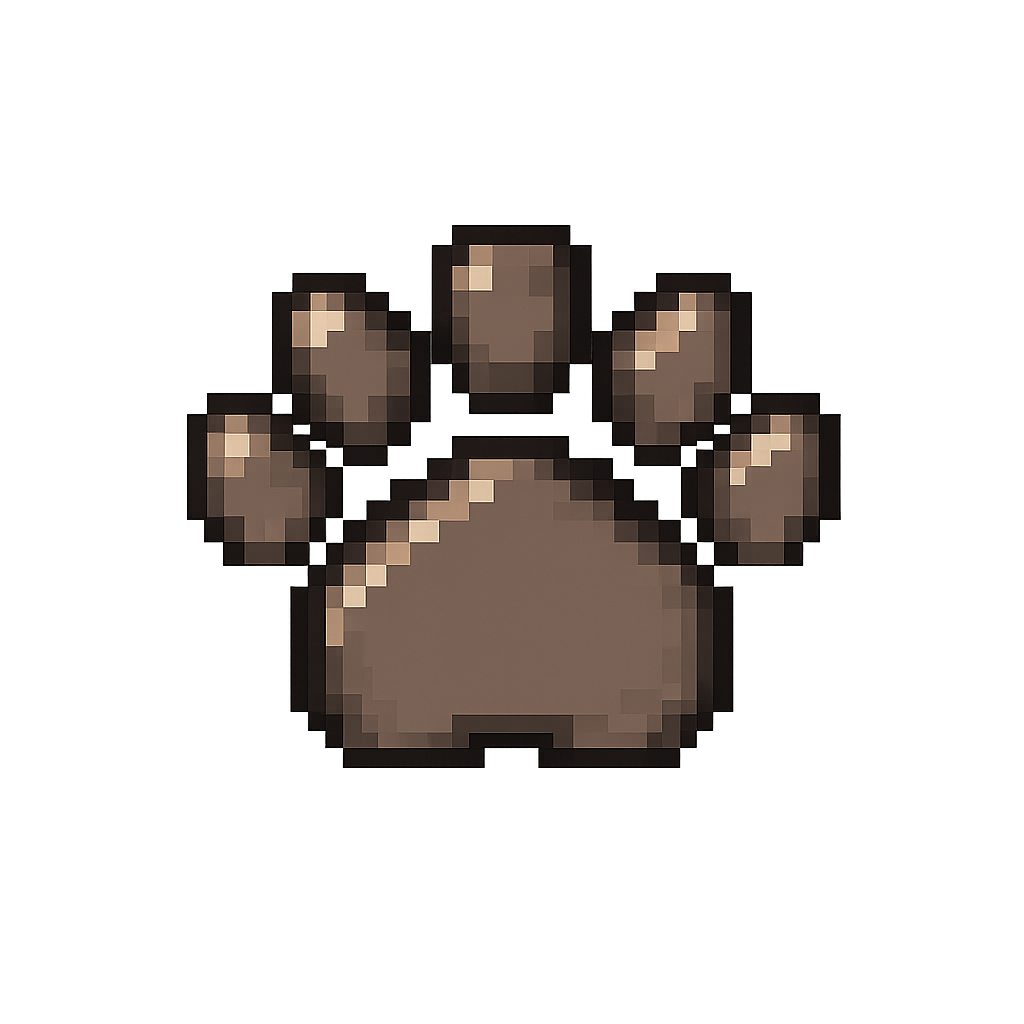
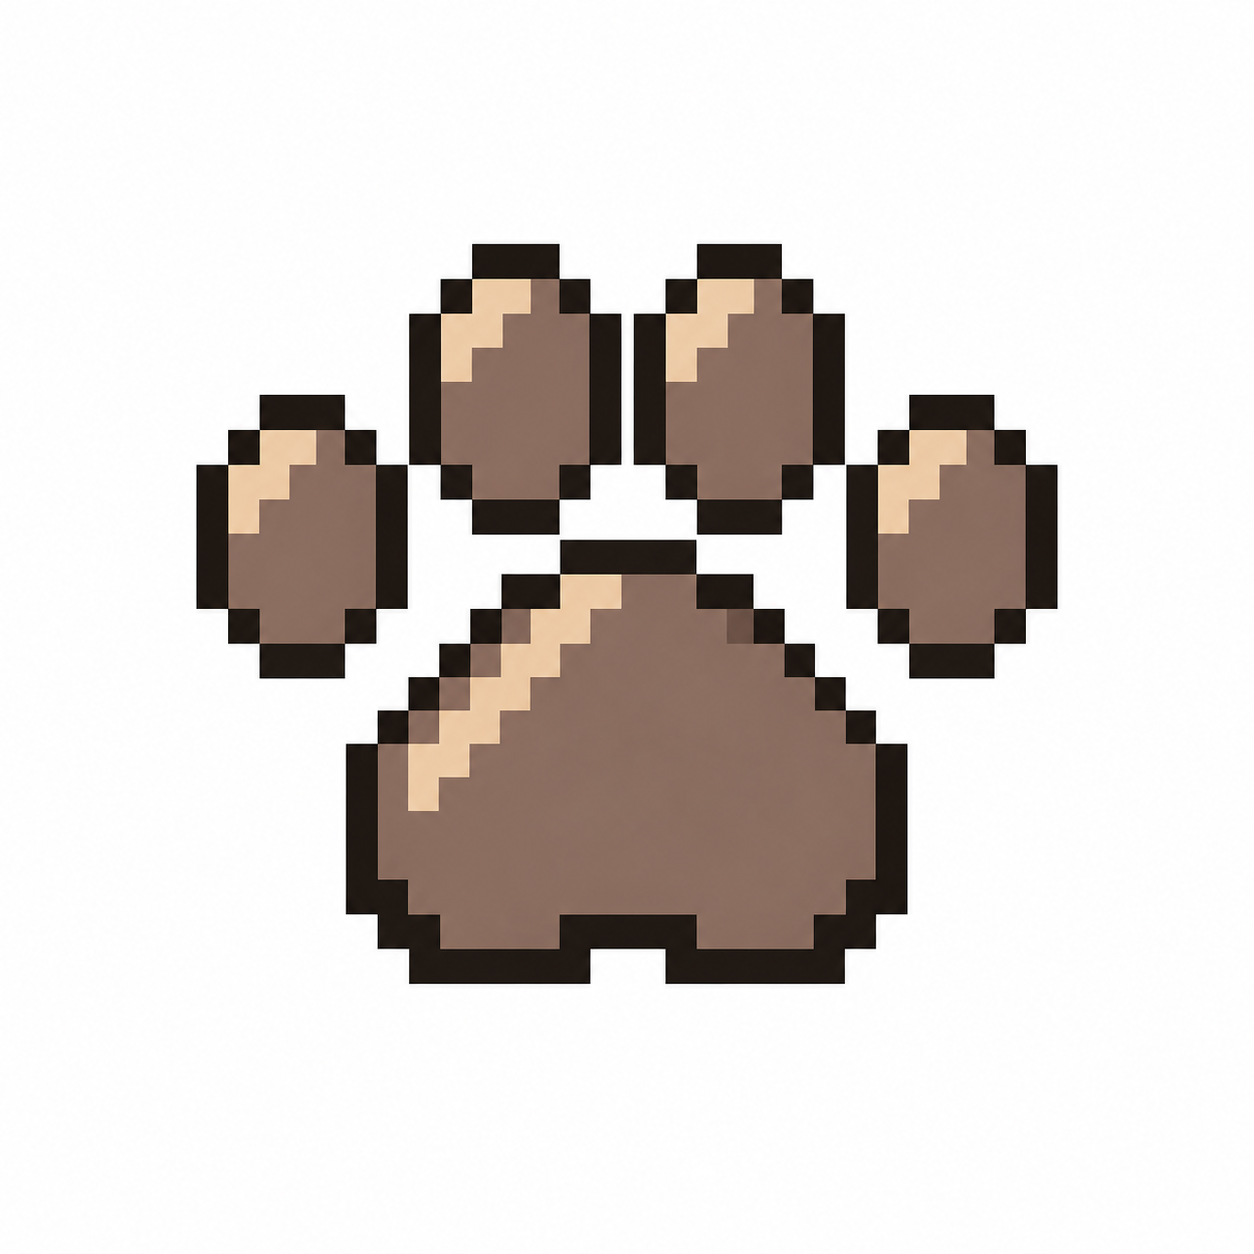
feat(ui): replace custom pointer PNG with SVG and update documentation

Changed region(s): [[0.1562, 0.1875, 0.8438, 0.8125]]

diff --git a/src/app/globals.css b/src/app/globals.css
@@ -129,7 +129,7 @@ img.pixel {
 .hitbox-bob.delay-3 { animation-delay: 0.9s; }
 
 .cursor-pixel {
-  cursor: url('/Pointer.png') 0 0, pointer;
+  cursor: url('/Pointer.svg') 0 0, pointer;
 }
 
 @media (prefers-reduced-motion: reduce) {

diff --git a/phases/6-share-meta-and-cursor/step1.md b/phases/6-share-meta-and-cursor/step1.md
@@ -14,10 +14,10 @@
 `RoomScene` 내 클릭 가능한 영역(hitbox)은 투명 `<button>` 요소로 구현된다.
 현재 이 버튼들은 기본 커서를 사용한다 (`cursor: auto`).
 
-사용자가 클릭 가능한 영역에 호버했을 때 픽셀 아트 스타일의 커스텀 포인터(`public/Pointer.png`)가 표시되도록 한다.
+사용자가 클릭 가능한 영역에 호버했을 때 픽셀 아트 스타일의 커스텀 포인터(`public/Pointer.svg`)가 표시되도록 한다.
 
-**에셋 위치**: `public/Pointer.png` (이미 존재 확인됨)
-**공개 URL**: `/Pointer.png`
+**에셋 위치**: `public/Pointer.svg` (이미 존재 확인됨)
+**공개 URL**: `/Pointer.svg`
 
 **적용 대상**:
 1. `HITBOX_DEFS`의 모든 hitbox `<button>` (다이어리, 책장, 캘린더, 책 등록, 설정 — 5개)
@@ -36,11 +36,11 @@ Tailwind 임의값 문법(`cursor-[url(...)]`)은 사용하지 않는다 — CSS
 
 ```css
 .cursor-pixel {
-  cursor: url('/Pointer.png') 0 0, pointer;
+  cursor: url('/Pointer.svg') 0 0, pointer;
 }
 ```
 
-- hotspot `0 0`: 포인터 이미지의 좌상단이 클릭 지점이 됨. `Pointer.png`가 화살표 형태이면 적절.
+- hotspot `0 0`: 포인터 이미지의 좌상단이 클릭 지점이 됨. `Pointer.svg`가 화살표 형태이면 적절.
 - fallback `pointer`: 커스텀 이미지 로드 실패 시 기본 손가락 커서.
 
 ### 2. `docs/UI_GUIDE.md` — Cursor 섹션 추가 (없는 경우에만)
@@ -53,7 +53,7 @@ Tailwind 임의값 문법(`cursor-[url(...)]`)은 사용하지 않는다 — CSS
 클릭 가능한 sprite 영역(hitbox button)에 `cursor-pixel` 클래스를 적용한다.
 
 - 에셋: `public/Pointer.png`
-- CSS: `cursor: url('/Pointer.png') 0 0, pointer`
+- CSS: `cursor: url('/Pointer.svg') 0 0, pointer`
 - 적용 대상: RoomScene의 모든 hitbox button, 램프 button
 - 비인터랙티브 영역(배경 이미지, 장식 sprite)에는 적용하지 않는다
 ```
@@ -107,7 +107,7 @@ bun test
 
 1. AC 커맨드를 순서대로 실행한다.
 2. `bun dev` 후 `/`에서 수동 확인:
-   - 곰, 다이어리, 책장, 창문, 책더미 영역에 마우스 올렸을 때 `Pointer.png` 커서 표시됨.
+   - 곰, 다이어리, 책장, 창문, 책더미 영역에 마우스 올렸을 때 `Pointer.svg` 커서 표시됨.
    - 배경 이미지 영역은 기본 커서 유지.
 3. `phases/6-share-meta-and-cursor/index.json`의 step 1을 업데이트한다.
 4. 커밋:
@@ -117,6 +117,6 @@ bun test
 ## 금지사항
 
 - `SpriteImage` 컴포넌트에 cursor 스타일을 적용하지 마라 — 이미지는 `aria-hidden`이고 클릭을 받지 않는다. hitbox button에만 적용한다.
-- `cursor-[url('/Pointer.png')_0_0,_pointer]` 형태의 Tailwind 임의값 문법을 사용하지 마라 — globals.css 클래스를 사용한다.
+- `cursor-[url('/Pointer.svg')_0_0,_pointer]` 형태의 Tailwind 임의값 문법을 사용하지 마라 — globals.css 클래스를 사용한다.
 - 기존 hitbox button의 `focus-visible:outline` 스타일을 제거하지 마라 — 접근성 포커스 표시기다.
 - 기존 테스트를 삭제하거나 skip하지 마라.

diff --git a/docs/UI_GUIDE.md b/docs/UI_GUIDE.md
@@ -604,7 +604,7 @@ step 6에서 제거됨. 설정 진입점은 step 7에서 곰 캐릭터 hitbox로
 
 클릭 가능한 sprite 영역(hitbox button)에 `cursor-pixel` 클래스를 적용한다.
 
-- 에셋: `public/Pointer.png`
-- CSS: `cursor: url('/Pointer.png') 0 0, pointer`
+- 에셋: `public/Pointer.svg`
+- CSS: `cursor: url('/Pointer.svg') 0 0, pointer`
 - 적용 대상: RoomScene의 모든 hitbox button, 램프 button
 - 비인터랙티브 영역(배경 이미지, 장식 sprite)에는 적용하지 않는다
